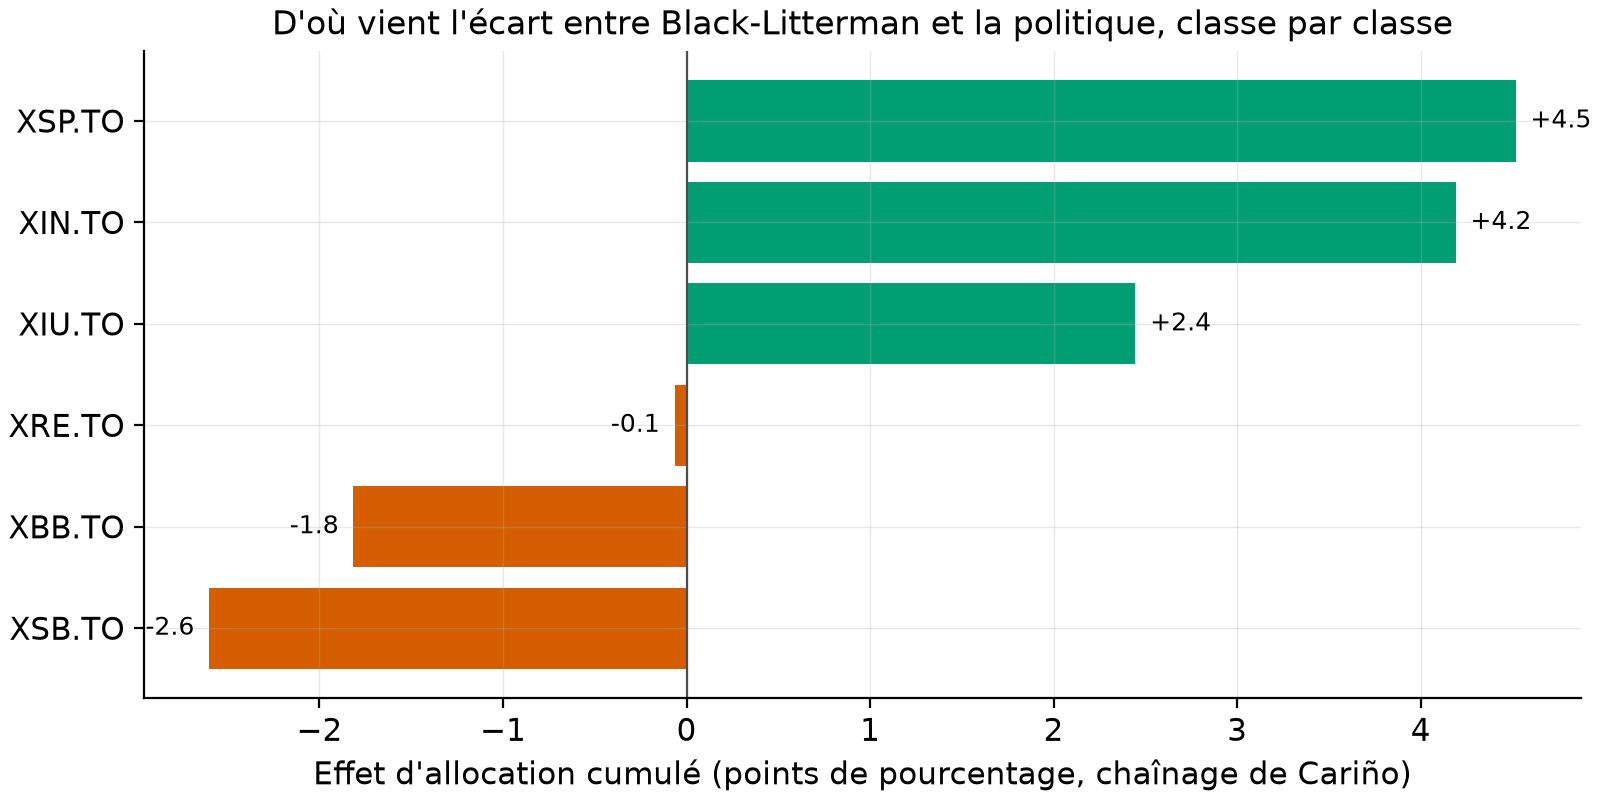
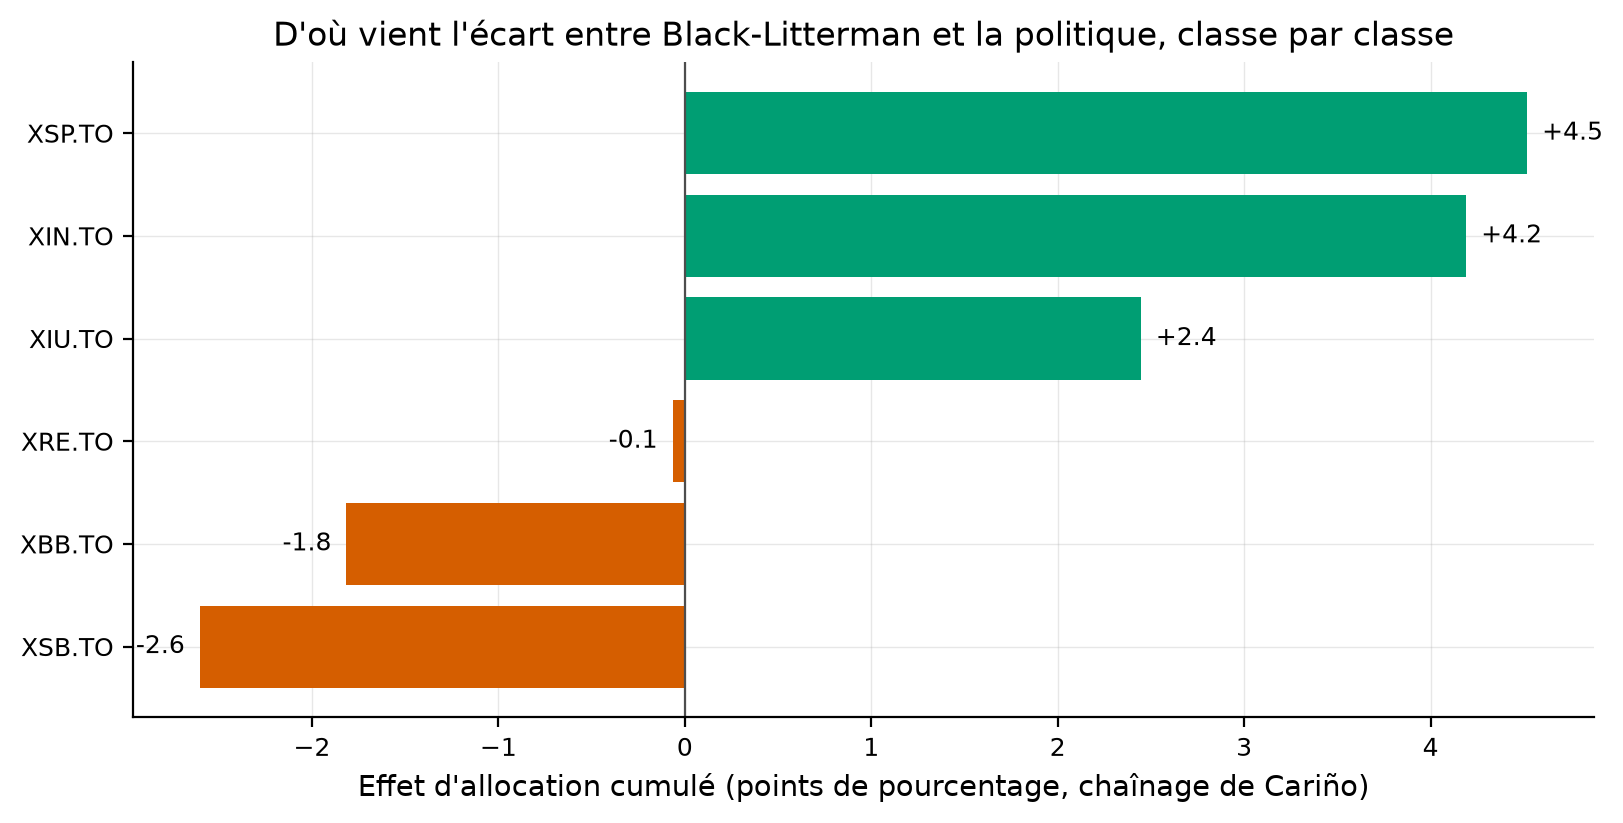
Consommer la feuille de style partagée au lieu de recopier la palette
La palette Okabe-Ito et les réglages de figure étaient recopiés à l'identique dans
chaque dépôt du portefeuille. Une correction de graisse de trait devait donc être faite
une fois par dépôt, et ne l'était jamais.

Le module de figures appelle désormais gv-fintools 0.2.1. Le nom public de la fonction
de réglage ne change pas, si bien qu'aucun appelant n'est touché. Les figures sont
régénérées avec le nouveau style, qui ajoute l'embarquement des polices dans les PDF :
le texte d'une figure reste sélectionnable et cherchable dans le rapport.

Changed region(s): [[0.0, 0.0625, 1.0, 1.0], [0.1562, 0.0, 0.9062, 0.0625], [0.1875, 0.625, 0.25, 0.7188]]

diff --git a/src/pops/style.py b/src/pops/style.py
@@ -6,27 +6,13 @@ Palette d'Okabe et Ito (2008), huit couleurs distinguables par les lecteurs dalt
 
 from __future__ import annotations
 
-import matplotlib as mpl
-from cycler import cycler
+from gvf.style import OKABE_ITO, appliquer, formateur  # noqa: F401
 
-OKABE_ITO = ["#0072B2", "#E69F00", "#009E73", "#D55E00", "#CC79A7", "#56B4E9", "#F0E442", "#000000"]
+# La palette et les réglages viennent de la couche partagée du portefeuille : les mêmes
+# couleurs et la même virgule décimale dans tous les dépôts, corrigées à un seul endroit.
 
 
-def use_style() -> None:
-    """Applique le style du dépôt à toutes les figures qui suivent."""
-    mpl.rcParams.update({
-        "figure.dpi": 200,
-        "savefig.dpi": 200,
-        "figure.constrained_layout.use": True,
-        "font.size": 11,
-        "axes.titlesize": 12,
-        "axes.labelsize": 11,
-        "axes.prop_cycle": cycler(color=OKABE_ITO),
-        "axes.spines.top": False,
-        "axes.spines.right": False,
-        "axes.grid": True,
-        "grid.alpha": 0.3,
-        "grid.linewidth": 0.5,
-        "legend.frameon": False,
-        "lines.linewidth": 1.6,
-    })
+def use_style():
+    """Les réglages communs, puis le formateur d'axe en français."""
+    appliquer()
+    return formateur()
